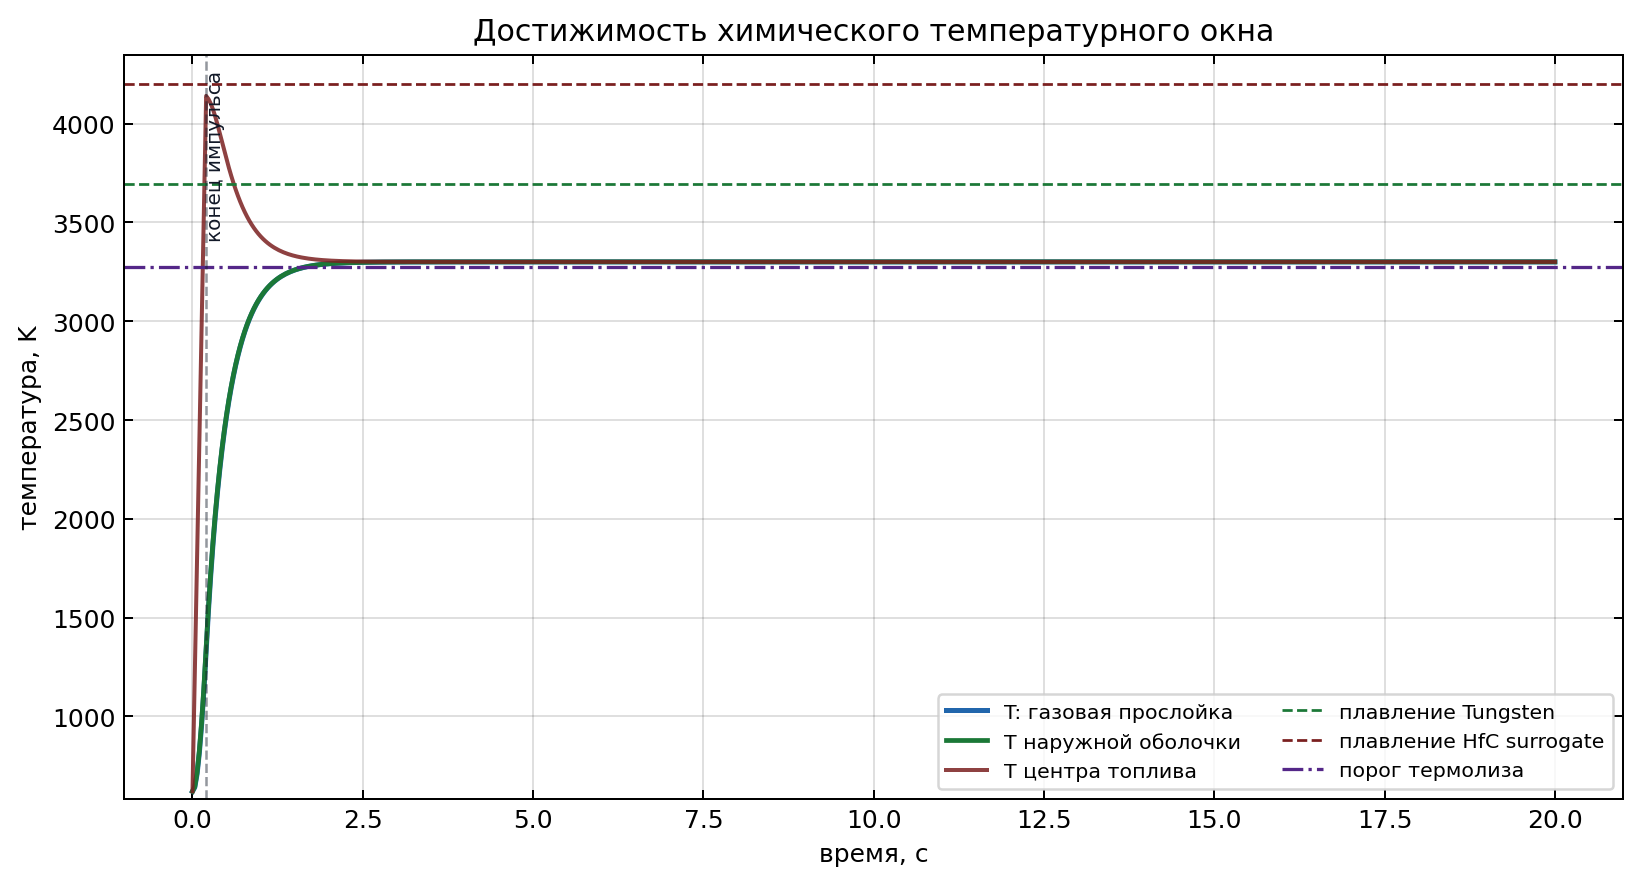
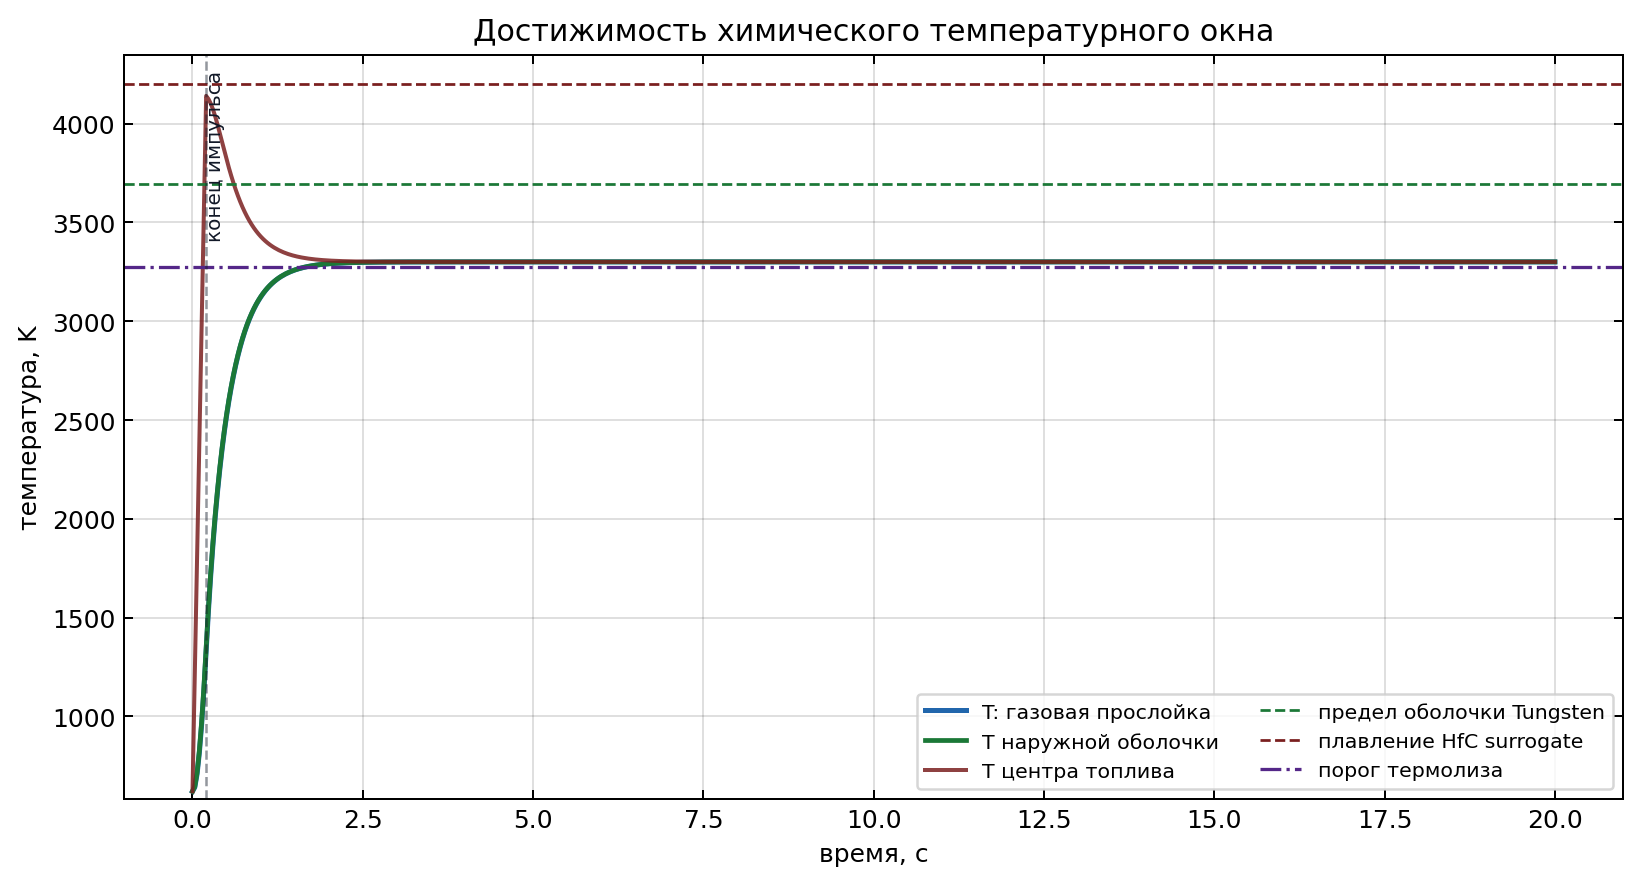
Add cladding no-go thermolysis criterion

Changed region(s): [[0.7774, 0.7941, 0.9951, 0.8857], [0.5598, 0.7941, 0.7463, 0.8857]]

diff --git a/main.tex b/main.tex
@@ -298,7 +298,48 @@ n_{H_2}^{\mathrm{реал}}\le
 \eta_{\mathrm{равн}}(T,p)\eta_{\mathrm{зак}} n_{H_2}^{\max},
 \qquad 0\le\eta_{\mathrm{равн}},\eta_{\mathrm{зак}}\le1.
 \]
-Прямой термолиз становится заметным только при очень высоких температурах; при \(3000\,\mathrm{K}\) и \(1\,\mathrm{atm}\) равновесная диссоциация водяного пара все еще далека от полной, а повышение давления дополнительно сдвигает равновесие к воде \cite{TsutsumiWaterSplitting}.
+Прямой термолиз становится заметным только при очень высоких температурах; при \(3000\,\mathrm{K}\) и атмосферном давлении равновесная диссоциация водяного пара все еще далека от полной, а повышение давления дополнительно сдвигает равновесие к воде \cite{TsutsumiWaterSplitting}. Поэтому в работе используется не одна универсальная температура диссоциации, а функция \(T_{\mathrm{дис}}(p,x_*)\), где \(x_*\) -- выбранный смысловой уровень молярной доли \(H_2\). Для благоприятной трехкомпонентной оценки
+\[
+\mathrm{H_2O \rightleftharpoons H_2+\tfrac12 O_2}
+\]
+по коэффициентам NIST--JANAF для газовых \(H_2O\), \(H_2\) и \(O_2\) получаются следующие ориентиры при \(p=15.5\,\mathrm{МПа}\) \cite{NISTChemWebBook}.
+
+\begin{table}[H]
+    \centering
+    \small
+    \renewcommand{\arraystretch}{1.18}
+    \begin{tabular}{|p{0.22\textwidth}|p{0.28\textwidth}|p{0.38\textwidth}|}
+        \hline
+        Уровень \(x_*\) для \(H_2\) & \(T_{\mathrm{дис}}(15.5\,\mathrm{МПа},x_*)\), K & Физическая трактовка\\
+        \hline
+        \(10^{-4}\) & \(\approx1625\) & слабый признак диссоциации\\
+        \hline
+        \(10^{-3}\) & \(\approx1995\) & уровень порядка текущего базового максимума пара\\
+        \hline
+        \(10^{-2}\) & \(\approx2586\) & заметная, но все еще малая молярная доля\\
+        \hline
+        \(5\cdot10^{-2}\) & \(\approx3275\) & несколько процентов молекулярного \(H_2\), близко к порогу \(3000^\circ\mathrm{C}\)\\
+        \hline
+    \end{tabular}
+    \caption{Ориентировочные температуры достижения заданной равновесной молярной доли \(H_2\) при давлении \(15.5\,\mathrm{МПа}\) в благоприятной модели \(H_2O/H_2/O_2\).}
+    \label{tab:dissociationTemperatureLevels}
+\end{table}
+
+Эта таблица используется как верхняя оценка. Она не включает радикалы \(H\), \(O\), \(OH\), кинетику и рекомбинацию при охлаждении. Для отрицательного вывода по стандартной оболочке такой оценки достаточно: если температура стенки не может достичь даже \(T_{\mathrm{дис}}(p,x_*)\), то более подробная химия не создаст допустимый режим.
+
+Сначала проверяется необходимое температурное условие
+\[
+\Pi_T=\frac{T_{\mathrm{lim},c}}{T_{\mathrm{дис}}(p,x_*)}.
+\]
+Если \(\Pi_T<1\), режим пуст до всякой энтальпийной оценки. Для циркониевой оболочки в легководной постановке в качестве строгого инженерного предела используется \(T_{\mathrm{lim},c}=1477\,\mathrm{K}\), соответствующий \(2200^\circ\mathrm{F}\) в критериях аварийного охлаждения \cite{NRC10CFR5046}. Этот предел ниже даже уровня \(x_{H_2}\sim10^{-4}\) при \(15.5\,\mathrm{МПа}\). Плавление Zircaloy, лежащее в области порядка \(2.0\)--\(2.3\,\mathrm{тыс.\ K}\), является более поздней аварийной границей, а не допустимым рабочим запасом \cite{MassihZrPhase2021}.
+
+Только при \(\Pi_T\ge1\) имеет смысл проверять энтальпийную достаточность тонкой паровой прослойки:
+\[
+A_{\mathrm{терм}}=
+\frac{Q'_{s,\mathrm{до\,lim}}}
+{m_s'\left[h_s(T_{\mathrm{дис}},p)-h_s(T_{s,0},p)\right]}.
+\]
+При \(A_{\mathrm{терм}}<1\) в конечный паровой инвентарь не дошло достаточно тепла до нарушения пределов. При \(A_{\mathrm{терм}}\ge1\) режим остается только тепловым кандидатом и требует расчета равновесного состава, времени пребывания при высокой температуре и быстрой закалки продуктов.
 
 Критерии реализуемости собираются в логическое условие
 \[
@@ -314,10 +355,10 @@ n_{H_2}^{\mathrm{реал}}\le
 \qquad
 M_f=T_{m,f}-T_{f,\max},
 \qquad
-M_c=T_{c,\lim}-T_{c,\max}.
+M_c=T_{\mathrm{lim},c}-T_{c,\max}.
 \]
 Кроме этого, в рассматриваемом режиме не должно возникать взрывное взаимодействие перегретого топлива с водой.
-Для \(UO_2\) температура \(3000^\circ\mathrm{C}\approx3273\,\mathrm{K}\) уже выше рекомендованной температуры плавления порядка \(3120\pm30\,\mathrm{K}\). Для циркониевой оболочки такая температура тем более невозможна как твердофазный режим: характерная температура плавления циркониевых сплавов существенно ниже. Поэтому всякий расчет с \(T_f>T_{m,f}\) или \(T_c>T_{c,\lim}\) должен интерпретироваться как переход к аварийной области, а не как достижение целевого термолизного режима \cite{IAEATECDOC1496,IAEATECDOC1578,LOCAOxidation,OECDSerenaProject2014}.
+Для \(UO_2\) температура \(3000^\circ\mathrm{C}\approx3273\,\mathrm{K}\) уже выше рекомендованной температуры плавления порядка \(3120\pm30\,\mathrm{K}\). Для циркониевой оболочки такая температура тем более невозможна как твердофазный режим. Поэтому всякий расчет с \(T_f>T_{m,f}\) или \(T_c>T_{\mathrm{lim},c}\) должен интерпретироваться как выход за пределы целевой постановки; если при этом начинается существенное окисление оболочки или образование водорода за счет реакции Zircaloy с паром, задача переходит к тяжелоаварийному сценарию, а не к управляемому термолизу водяного пара \cite{IAEATECDOC1496,IAEATECDOC1578,LOCAOxidation,OECDSerenaProject2014}.
 
 \section{Расчетная цепочка ТВЭЛ--паровая прослойка}
 
@@ -332,12 +373,12 @@ M_c=T_{c,\lim}-T_{c,\max}.
 Главное узкое место контрольной постановки состоит в том, что требуемая температура должна возникнуть не в топливе, а в паровой области у наружной поверхности оболочки. Поэтому простое увеличение импульсной энергии не является решением: при росте \(E_{\mathrm{вв}}\) сначала растут \(T_f\) и \(T_c\), а только затем через тепловые сопротивления зазора и оболочки растет \(T_s\). Для анализа введем достижимый температурный запас
 \[
 \Delta T_{\mathrm{зап}}=
-\max_{t:\,T_f(t)<T_{m,f},\,T_c(t)<T_{c,\lim}}
+\max_{t:\,T_f(t)<T_{m,f},\,T_c(t)<T_{\mathrm{lim},c}}
 \left[T_s(t)-T^*_{\mathrm{дис}}\right].
 \]
-Если \(\Delta T_{\mathrm{зап}}<0\), целевое окно не достигается до нарушения материальных ограничений. Если \(\Delta T_{\mathrm{зап}}>0\), режим является только тепловым кандидатом и все еще требует проверки химического равновесия, теплообмена, закалки продуктов и материалов.
+Если \(\Delta T_{\mathrm{зап}}<0\), целевое окно не достигается до нарушения ограничений топлива или оболочки. Если \(\Delta T_{\mathrm{зап}}>0\), режим является только тепловым кандидатом и все еще требует проверки химического равновесия, теплообмена, закалки продуктов и материалов.
 
-Диагностический параметрический расчет показывает, что для штатной пары \(UO_2\)--Zircaloy область допустимого термолизного окна фактически пуста. В базовом режиме \(E_{\mathrm{вв}}=250\,\mathrm{кДж/м}\), \(\delta_s=100\,\mu\mathrm{m}\), \(p=15.5\,\mathrm{МПа}\) паровая прослойка нагревается только до \(T_s\approx1977\,\mathrm{K}\), тогда как целевой порог принят равным \(3273\,\mathrm{K}\). При этом максимальная температура оболочки уже составляет около \(1977\,\mathrm{K}\), то есть запас до предела циркониевого сплава мал. Увеличение импульса до \(350\,\mathrm{кДж/м}\) все еще не дает химического окна, но оболочка уже оказывается в недопустимой области. При \(500\,\mathrm{кДж/м}\) расчетная температура пара превышает \(3273\,\mathrm{K}\), однако это происходит вместе с нарушением ограничений топлива и оболочки, то есть относится к аварийному режиму, а не к целевому термолизу.
+Диагностический параметрический расчет показывает, что для штатной пары \(UO_2\)--Zircaloy область допустимого термолизного окна фактически пуста. В базовом режиме \(E_{\mathrm{вв}}=250\,\mathrm{кДж/м}\), \(\delta_s=100\,\mu\mathrm{m}\), \(p=15.5\,\mathrm{МПа}\) паровая прослойка нагревается только до \(T_s\approx1977\,\mathrm{K}\). Это ниже порога \(3273\,\mathrm{K}\), но уже выше предела \(T_{\mathrm{lim},c}=1477\,\mathrm{K}\) для циркониевой оболочки. По таблице \ref{tab:dissociationTemperatureLevels} такая температура соответствует лишь уровню порядка \(x_{H_2}\sim10^{-3}\) в благоприятной равновесной оценке. Увеличение импульса до \(350\,\mathrm{кДж/м}\) не делает режим допустимым: оболочка еще сильнее выходит из температурного окна, а при \(500\,\mathrm{кДж/м}\) расчетная температура пара превышает \(3273\,\mathrm{K}\) только вместе с нарушением ограничений топлива и оболочки.
 
 \begin{table}[H]
     \centering
@@ -348,28 +389,28 @@ M_c=T_{c,\lim}-T_{c,\max}.
         \hline
         Сценарий & Параметр & \(T_{s,\max}\), K & \(T_{f,\max}\), K & \(T_{c,\max}\), K & Интерпретация\\
         \hline
-        \(UO_2\)--Zircaloy & \(250\,\mathrm{кДж/м}\) & 1977 & 2278 & 1977 & окно не достигнуто\\
+        \(UO_2\)--Zircaloy & \(250\,\mathrm{кДж/м}\) & 1977 & 2278 & 1977 & оболочка выше предела\\
         \hline
         \(UO_2\)--Zircaloy & \(350\,\mathrm{кДж/м}\) & 2520 & 2941 & 2520 & оболочка выше предела\\
         \hline
         \(UO_2\)--Zircaloy & \(500\,\mathrm{кДж/м}\) & 3334 & 3936 & 3334 & окно только в аварийной области\\
         \hline
-        \(UO_2\)--Zircaloy & \(\delta_s=10\)--\(50\,\mu\mathrm{m}\) & 1978--1980 & 2278 & 1978--1980 & тонкий слой не решает ограничение\\
+        \(UO_2\)--Zircaloy & \(\delta_s=10\)--\(50\,\mu\mathrm{m}\) & 1978--1980 & 2278 & 1978--1980 & оболочка выше предела\\
         \hline
         \(HfC\)--W & \(450\,\mathrm{кДж/м}\) & 3133 & 3921 & 3133 & близко к окну, но ниже порога\\
         \hline
         \(HfC\)--W & \(480\,\mathrm{кДж/м}\) & 3301 & 4141 & 3301 & узкий тепловой кандидат\\
         \hline
     \end{tabular}
-    \caption{Диагностический расчет достижимости температурного окна \(T^*_{\mathrm{дис}}=3273\,\mathrm{K}\) в текущей конечно-объемной постановке. Температуры относятся к паровой прослойке, центру топлива и наружной поверхности оболочки.}
+    \caption{Диагностический расчет достижимости температурного окна \(T^*_{\mathrm{дис}}=3273\,\mathrm{K}\) в текущей конечно-объемной постановке. Температуры относятся к паровой прослойке, центру топлива и наружной поверхности оболочки; для \(UO_2\)--Zircaloy интерпретация дана относительно \(T_{\mathrm{lim},c}=1477\,\mathrm{K}\).}
     \label{tab:temperatureWindowBottleneck}
 \end{table}
 
-Отдельно важно, что уменьшение толщины паровой прослойки не снимает принципиального ограничения. В текущей модели оно уменьшает массу нагреваемого пара и долю энергии, уходящую во внешний слой, но максимум температуры по-прежнему ограничен температурой наружной поверхности оболочки. Следовательно, для стандартного \(UO_2\)--Zircaloy нельзя получить корректный вывод о достижении \(3000^\circ\mathrm{C}\) без уточнения, что это достигнуто уже в недопустимой области материала.
+Отдельно важно, что уменьшение толщины паровой прослойки не снимает принципиального ограничения. В текущей модели оно уменьшает массу нагреваемого пара и долю энергии, уходящую во внешний слой, но максимум температуры по-прежнему ограничен температурой наружной поверхности оболочки. Следовательно, для стандартного \(UO_2\)--Zircaloy нельзя получить корректный вывод о достижении \(3000^\circ\mathrm{C}\) без уточнения, что это достигнуто уже за пределами допустимой области оболочки.
 
 Единственный найденный путь к достижению окна в предварительном отборочном расчете -- перейти от штатного твэла к контрфактической высокотемпературной паре материалов. Для суррогатной пары карбид гафния--вольфрам, далее обозначенной как \(HfC\)--W, при \(E_{\mathrm{вв}}\approx480\,\mathrm{кДж/м}\) получается \(T_s\approx3301\,\mathrm{K}\) при положительном запасе до плавления оболочки и малом запасе топлива порядка \(60\,\mathrm{K}\). Этот результат следует интерпретировать как указание на непустую область теплового критерия в искусственной области параметров, а не как инженерную рекомендацию: реальный выбор таких материалов должен пройти проверку по нейтронике, окислению в воде и паре, термоудару, радиационной стойкости и технологичности.
 
-Таким образом, научный результат контрольной постановки имеет две части. Первая часть отрицательная: для \(UO_2\)--Zircaloy целевое температурное окно у пара не достигается до выхода за пределы материала. Вторая часть конструктивная: достижение окна становится возможным только при изменении материальной архитектуры и при очень узком балансе между импульсной энергией, теплопереносом через зазор, температурой оболочки и запасом топлива. Поэтому дальнейший расчет должен строиться не вокруг одной точки, а вокруг карты режимов в координатах
+Таким образом, научный результат контрольной постановки имеет две части. Первая часть отрицательная: для \(UO_2\)--Zircaloy целевое температурное окно у пара не достигается до выхода оболочки из допустимого температурного окна. Вторая часть конструктивная: достижение окна становится возможным только при изменении материальной архитектуры и при очень узком балансе между импульсной энергией, теплопереносом через зазор, температурой оболочки и запасом топлива. Поэтому дальнейший расчет должен строиться не вокруг одной точки, а вокруг карты режимов в координатах
 \[
 E_{\mathrm{вв}},\ \tau_p,\ h_g,\ h_s,\ \delta_s,\ p,\ \text{материальная пара},
 \]
@@ -381,11 +422,11 @@ E_{\mathrm{вв}},\ \tau_p,\ h_g,\ h_s,\ \delta_s,\ p,\ \text{материаль
 
 В работе построена расчетная постановка импульсного энерговвода в системе топливо--зазор--оболочка--вода/пар. Основной результат состоит в разделении полной энергии импульса и энергии, которая действительно успевает пройти через тепловые сопротивления твэла в паровую область. Это разделение принципиально: высокая температура топлива не является критерием достижения высокотемпературного пара и не может напрямую использоваться для оценки выхода \(H_2\).
 
-Для базовой материальной пары \(UO_2\)--Zircaloy расчетный вариант с \(E_{\mathrm{вв}}=250\,\mathrm{кДж/м}\) не достигает принятого порога \(T^*_{\mathrm{дис}}=3273\,\mathrm{K}\) в паровой прослойке. Увеличение импульсной энергии приводит к росту температуры топлива и оболочки раньше, чем формируется допустимое термолизное окно. Поэтому в рамках принятых допущений штатная водоохлаждаемая материальная пара не дает корректного режима прямого высокотемпературного разложения водяного пара.
+Для базовой материальной пары \(UO_2\)--Zircaloy расчетный вариант с \(E_{\mathrm{вв}}=250\,\mathrm{кДж/м}\) не достигает принятого порога \(T^*_{\mathrm{дис}}=3273\,\mathrm{K}\) в паровой прослойке. Более сильный результат состоит в том, что уже уровень слабой диссоциации \(x_{H_2}\sim10^{-4}\) при давлении \(15.5\,\mathrm{МПа}\) требует температуры выше принятого предела циркониевой оболочки \(1477\,\mathrm{K}\). Увеличение импульсной энергии приводит к росту температуры топлива и оболочки раньше, чем формируется допустимое термолизное окно. Поэтому в рамках принятых допущений штатная водоохлаждаемая материальная пара не дает корректного режима прямого высокотемпературного разложения водяного пара.
 
 Контрфактический расчет с высокотемпературной парой \(HfC\)--W показывает, что тепловой критерий может стать положительным только при иной материальной архитектуре и узком запасе по температуре топлива. Этот результат не является инженерной рекомендацией. Он задает направление следующей проверки: нейтронно-физическая совместимость, окисление в воде и паре, термоудар, радиационная стойкость, технологичность оболочки и устойчивость радиационной границы должны рассматриваться до вывода о практической применимости.
 
-Полученная модель не доказывает промышленную реализуемость схемы прямого получения водорода у твэла. Она задает границу применимости: целевой режим допустим только тогда, когда высокая температура достигается именно в паровой области, масса этой области оценена, оболочка и топливо остаются в допустимых пределах, а образование \(H_2\) не объясняется пароциркониевой реакцией. При невыполнении этих условий более содержательной практической нишей остаются не товарный водород, а высокоэнтальпийный пар, температурное усиление водоохлаждаемой системы или исследовательские импульсные режимы.
+Полученная модель не доказывает промышленную реализуемость схемы прямого получения водорода у твэла. Она задает границу применимости: целевой режим допустим только тогда, когда высокая температура достигается именно в паровой области, масса этой области оценена, оболочка и топливо остаются в допустимых пределах, а образование \(H_2\) не объясняется пароциркониевой реакцией. Для \(UO_2\)--Zircaloy такой режим является no-go уже по температурному условию оболочки, а не только по энергетике тонкой паровой пленки. При невыполнении этих условий более содержательной практической нишей остаются не товарный водород, а высокоэнтальпийный пар, температурное усиление водоохлаждаемой системы или исследовательские импульсные режимы.
 
 Дальнейшее уточнение должно быть связано с заменой предварительного конечно-объемного расчета на верифицированную теплогидравлическую модель, вводом режимной границы теплообмена для кипения и пленочного режима, расчетом равновесного состава пара и сравнением с внешним электролизом, высокотемпературным электролизом, термохимическими циклами, высокотемпературными газоохлаждаемыми реакторами и обычной ядерной когенерацией на границе промышленной площадки.
 
@@ -449,6 +490,23 @@ International Atomic Energy Agency.
 \textit{Analysis of Differences in Fuel Safety Criteria for WWER and Western PWR Nuclear Power Plants}.
 IAEA-TECDOC-1381, IAEA, Vienna, 2003.
 \url{https://www-pub.iaea.org/MTCD/Publications/PDF/te_1381_web.pdf}
+
+\bibitem{NRC10CFR5046}
+U.S. Nuclear Regulatory Commission.
+10 CFR \S 50.46. Acceptance criteria for emergency core cooling systems for light-water nuclear power reactors.
+\url{https://www.ecfr.gov/current/title-10/chapter-I/part-50/section-50.46}
+
+\bibitem{NISTChemWebBook}
+Linstrom P. J., Mallard W. G., eds.
+\textit{NIST Chemistry WebBook, NIST Standard Reference Database Number 69}.
+National Institute of Standards and Technology, Gaithersburg MD.
+\url{https://webbook.nist.gov/chemistry/}
+
+\bibitem{MassihZrPhase2021}
+Massih A. R., Jernkvist L. O.
+Solid state phase transformation kinetics in Zr-base alloys.
+\textit{Scientific Reports}, 11, 7022, 2021.
+\url{https://doi.org/10.1038/s41598-021-86308-w}
 
 \bibitem{IAPWSIF97}
 International Association for the Properties of Water and Steam.

diff --git a/figures/pipeline_report.tex b/figures/pipeline_report.tex
@@ -1,6 +1,6 @@
 \subsection{Расчетная геометрия контрольного объема}
 
-На первом графике задается область расчета: один метр твэла, топливо из диоксида урана \(UO_2\), газовый зазор, циркониевая оболочка и тонкая паровая прослойка у наружной поверхности. Масса этой прослойки считается не как произвольный параметр, а из ее кольцевого объема и плотности пара:
+На первом графике задается область расчета: один метр твэла, топливо из диоксида урана \(UO_2\), газовый зазор, циркониевая оболочка и тонкая паровая прослойка у наружной поверхности. Для оболочки в базовом варианте отдельно учитывается допустимый температурный предел \(T_{\mathrm{lim},c}=1477\,\mathrm{K}\), а плавление Zircaloy остается более поздней аварийной границей. Масса паровой прослойки считается не как произвольный параметр, а из ее кольцевого объема и плотности пара:
 \[
 m_s'=\rho_s \pi\left[(R_c+\delta_s)^2-R_c^2\right],
 \qquad
@@ -27,7 +27,7 @@ m_s'=\rho_s \pi\left[(R_c+\delta_s)^2-R_c^2\right],
 \begin{figure}[H]
     \centering
     \includegraphics[width=0.92\textwidth]{figures/pipeline_temperature_history.png}
-    \caption{История температур базового сценария \(UO_2\)--Zircaloy при \(E_{\mathrm{вв}}=250\,\mathrm{кДж/м}\). Паровая прослойка нагревается только до \(T_s^{\max}\approx1977\,\mathrm{K}\), то есть ниже принятого порога \(T^*_{\mathrm{дис}}=3273\,\mathrm{K}\).}
+    \caption{История температур базового сценария \(UO_2\)--Zircaloy при \(E_{\mathrm{вв}}=250\,\mathrm{кДж/м}\). Паровая прослойка нагревается только до \(T_s^{\max}\approx1977\,\mathrm{K}\), то есть ниже принятого порога \(T^*_{\mathrm{дис}}=3273\,\mathrm{K}\), но выше допустимого предела циркониевой оболочки.}
     \label{fig:pipelineTemperatureHistory}
 \end{figure}
 
@@ -89,12 +89,12 @@ m_{H_2}^{\max}=
 
 \subsection{Проверка температурного окна}
 
-Последний базовый график совмещает три ограничения: температуру пара, предел оболочки и предел топлива. Целевое условие записывается как \(T_s>T^*_{\mathrm{дис}}\) при положительных запасах \(M_f=T_{m,f}-T_f^{\max}\) и \(M_c=T_{m,c}-T_c^{\max}\). Для штатной пары \(UO_2\)--Zircaloy окно не достигается: пар остается холоднее химического порога, а дальнейшее увеличение импульса быстро выводит оболочку к материальному пределу.
+Последний базовый график совмещает три ограничения: температуру пара, допустимый предел наружной поверхности оболочки и температуру плавления топлива. Целевое условие записывается как \(T_s>T^*_{\mathrm{дис}}\) при положительных запасах \(M_f=T_{m,f}-T_f^{\max}\) и \(M_{\mathrm{об}}=T_{\mathrm{lim},c}-T_c^{\max}\). Для штатной пары \(UO_2\)--Zircaloy окно не достигается уже в более строгом смысле: пар остается холоднее химического порога, а наружная поверхность оболочки выходит выше принятого предела \(1477\,\mathrm{K}\), соответствующего \(2200^\circ\mathrm{F}\) в критериях аварийного охлаждения легководных реакторов \cite{NRC10CFR5046}.
 
 \begin{figure}[H]
     \centering
     \includegraphics[width=0.92\textwidth]{figures/pipeline_chemistry_window.png}
-    \caption{Температурное окно для базового сценария \(UO_2\)--Zircaloy. Порог прямого термолиза не пересекается до нарушения физического смысла штатной материальной пары.}
+    \caption{Температурное окно для базового сценария \(UO_2\)--Zircaloy. Порог прямого термолиза не пересекается до выхода оболочки из допустимого температурного окна.}
     \label{fig:pipelineChemistryWindow}
 \end{figure}
 
@@ -115,9 +115,9 @@ m_{H_2}^{\max}=
     \resizebox{\textwidth}{!}{%
     \begin{tabular}{@{}p{3.7cm}rrrrccc@{}}
     \hline
-    Сценарий & \(E_{\mathrm{вв}}\), кДж/м & \(T_s^{\max}\), K & \(T_f^{\max}\), K & \(T_c^{\max}\), K & \(T_s>T^*_{\mathrm{дис}}\) & \(M_f,M_c>0\) & \(m_{H_2}^{\max}\), г/м \\
+    Сценарий & \(E_{\mathrm{вв}}\), кДж/м & \(T_s^{\max}\), K & \(T_f^{\max}\), K & \(T_c^{\max}\), K & \(T_s>T^*_{\mathrm{дис}}\) & \(M_f,M_{\mathrm{об}}>0\) & \(m_{H_2}^{\max}\), г/м \\
     \hline
-    \(UO_2\)--Zircaloy, базовый & 250 & 1977 & 2278 & 1977 & нет & да & \(0.00\) \\
+    \(UO_2\)--Zircaloy, базовый & 250 & 1977 & 2278 & 1977 & нет & нет & \(0.00\) \\
 \(HfC\)--W, высокотемпературный & 480 & 3301 & 4141 & 3301 & да & да & \(9.58\cdot10^{-5}\) \\
     \hline
     \end{tabular}

diff --git a/TASK.md b/TASK.md
@@ -32,6 +32,21 @@ Deep Search нужно считать базовой рамкой практич
 5. Для положительного вывода нужно доказать не только физическую возможность нагрева, но и то, что радиационная, регуляторная, материаловедческая и системная цена сближения химического и ядерного контуров не съедает тепловой выигрыш.
 6. Даже отрицательный вывод полезен: диплом может дать карту границ применимости, критерии проигрыша электролизу/HTGR-подходу, требования к nuclear boundary, материалам, безопасности, радиационному контролю и системной интеграции.
 
+### 1.1. Выводы targeted research по предельному термолизу у оболочки
+
+Файл `materials/deep-researches/Предельный термолизный режим у оболочки ТВЭЛа.md` добавляет более сильную границу для основной линии диплома.
+
+Принять в диплом:
+
+1. Для стандартной пары \(UO_2/Zircaloy\) при давлении порядка \(15.5\,\mathrm{МПа}\) область near-wall термолиза пуста уже по температурному необходимому условию оболочки. Если \(T_{\mathrm{lim},c}<T_{\mathrm{дис}}(p,x_*)\), режим недостижим независимо от полной энергии импульса.
+2. Для Zircaloy нужно различать допустимый предел \(T_{\mathrm{lim},c}=1477\,\mathrm{K}\) из критерия \(2200^\circ F\), плавление в области порядка \(2.0\)--\(2.3\,\mathrm{тыс.\ K}\) и расчетный high-temperature surrogate. Плавление не должно использоваться как нормальный рабочий запас.
+3. По благоприятной трехкомпонентной оценке \(H_2O/H_2/O_2\) при \(15.5\,\mathrm{МПа}\): \(x_{H_2}\sim10^{-4}\) требует примерно \(1625\,\mathrm{K}\), \(10^{-3}\) -- \(1995\,\mathrm{K}\), \(10^{-2}\) -- \(2586\,\mathrm{K}\), \(5\cdot10^{-2}\) -- \(3275\,\mathrm{K}\). Эти числа использовать как upper-bound ориентир, а не как финальную химию.
+4. При \(T_s\approx1977\,\mathrm{K}\) базовый расчет находится около уровня \(x_{H_2}\sim10^{-3}\) в благоприятной равновесной оценке, но уже выше допустимого предела Zircaloy. Поэтому вывод должен звучать как no-go по оболочке, а не просто "не хватило до \(3000^\circ C\)".
+5. Пароциркониевая реакция остается отдельным аварийным источником \(H_2\). Как только существенное окисление оболочки начинает определять водород, дипломная постановка near-wall термолиза заканчивается.
+6. Контрфактическая пара \(HfC\)--W нужна только для проверки класса требуемых свойств: температура оболочки порядка \(2600\)--\(3300\,\mathrm{K}\), высокая теплопроводность топлива/оболочки, малый зазор и быстрая закалка. Это не инженерная рекомендация.
+
+Нельзя переносить в `main.tex` служебные ссылки Deep Research вида `turn...`; использовать только проверенные библиографические записи.
+
 ## 2. Рабочая формулировка темы
 
 Основная формулировка для обсуждения:
@@ -339,6 +354,22 @@ m_{H_2}^{max}=2M_H n_{H_2}^{max}.
 \Delta T_{margin}=T_{lim,clad}-\max_t T_c(R_{co},t).
 \]
 
+Необходимое температурное условие near-wall термолиза:
+
+\[
+\Pi_T=\frac{T_{\mathrm{lim},c}}{T_{\mathrm{дис}}(p,x_*)}.
+\]
+
+Если \(\Pi_T<1\), режим пуст до расчета энтальпии и равновесного состава. Для \(UO_2/Zircaloy\) при \(p\approx15.5\,\mathrm{МПа}\) это выполняется даже для слабого ориентира \(x_{H_2}\sim10^{-4}\), поскольку \(1477\,\mathrm{K}<1625\,\mathrm{K}\).
+
+Энтальпийная проверка имеет смысл только после \(\Pi_T\ge1\):
+
+\[
+A_{\mathrm{therm}}=
+\frac{Q'_{s,\mathrm{before\,limits}}}
+{m_s'[h_s(T_{\mathrm{дис}},p)-h_s(T_{s,0},p)]}.
+\]
+
 Критерий практической применимости:
 
 \[
@@ -414,6 +445,7 @@ Cantera использовать только после теплового ра
 - [x] Добавить начальный раздел по фазовым переходам и высокотемпературному пределу через энергетический баланс воды/пара.
 - [x] Добавить раздел по энергетическому пределу \(H_2\).
 - [x] Добавить критерии реализуемости \(\Theta_{\mathrm{diss}}\), \(M_f\), \(M_c\), \(\mathcal C_{\mathrm{target}}\).
+- [x] Добавить no-go критерий по оболочке \(\Pi_T=T_{\mathrm{lim},c}/T_{\mathrm{дис}}(p,x_*)\) и таблицу уровней \(x_{H_2}\) при \(15.5\,\mathrm{МПа}\).
 - [x] Переписать блок GeN-Foam под новую роль контрольной и ограниченной расчетной постановки.
 - [x] Начать переписывать результаты под метрики новой задачи: текущие результаты названы диагностикой прежнего однофазного сценария.
 - [ ] Заменить промежуточные итоги нормальным заключением.